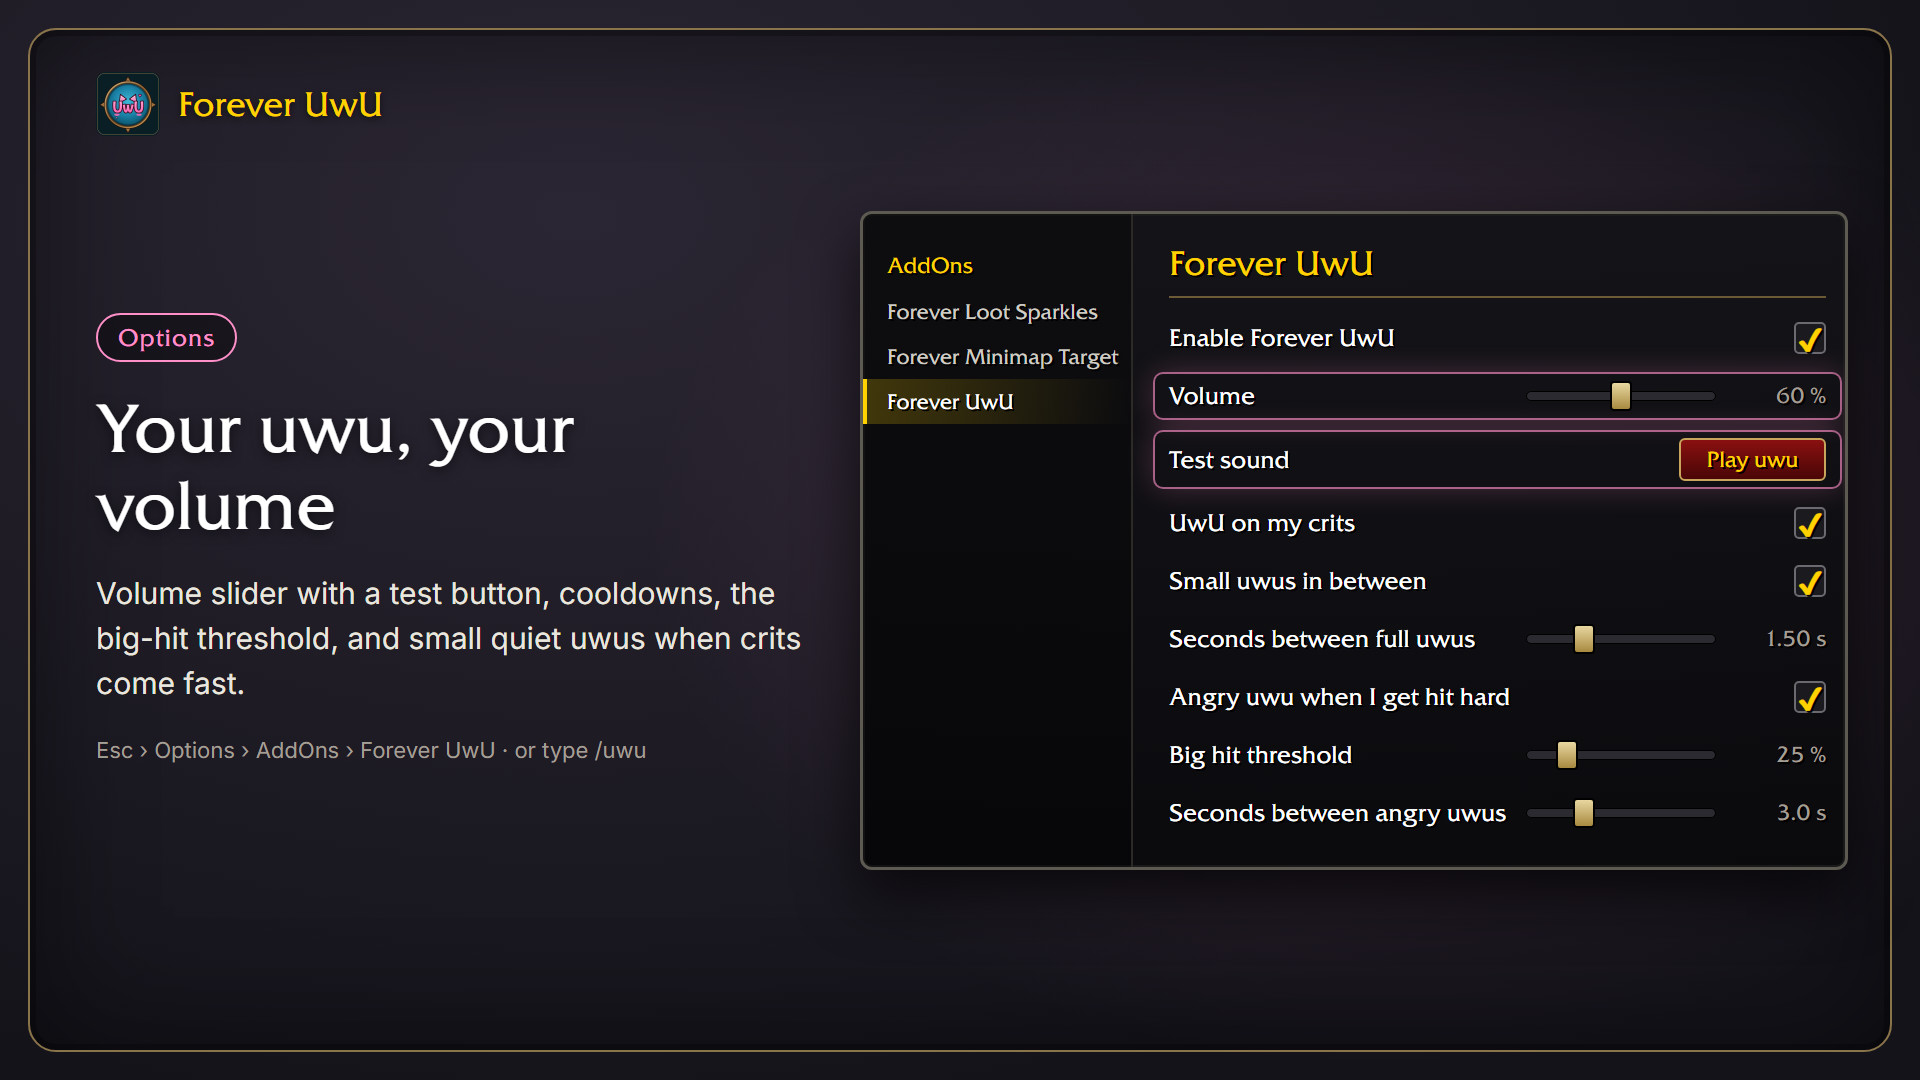
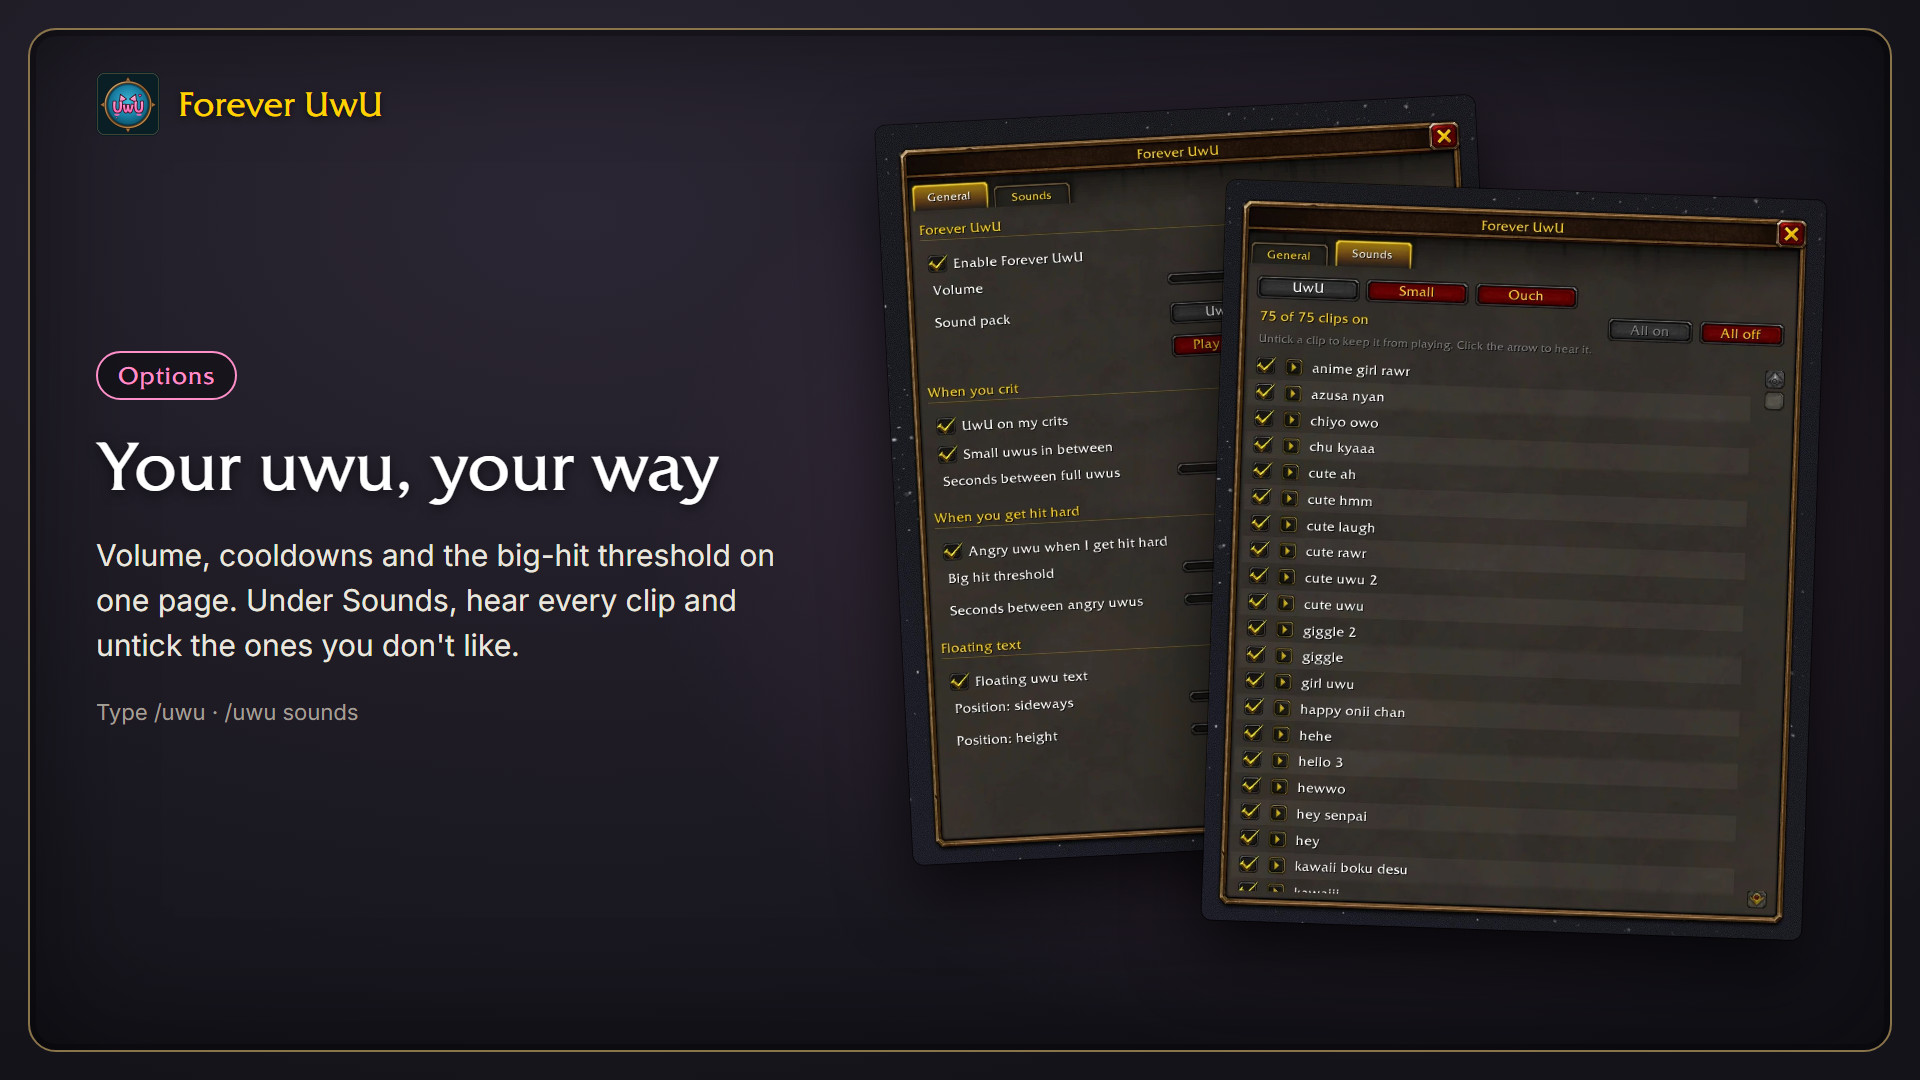
docs: show the new options window in the gallery

Changed region(s): [[0.0312, 0.0917, 0.9688, 0.8556]]

diff --git a/media/gallery/03-options.html b/media/gallery/03-options.html
@@ -5,36 +5,27 @@
 <title>Forever UwU – Options</title>
 <link rel="stylesheet" href="https://fonts.googleapis.com/css2?family=Inter:wght@400;600&display=block">
 <link rel="stylesheet" href="style.css">
+<style>
+  /* In-game screenshots of the options window (shots/), fanned out */
+  .shot {
+    position: absolute; width: 600px; border-radius: 10px;
+    box-shadow: 0 30px 70px rgba(0, 0, 0, 0.7), 0 0 0 1px rgba(0, 0, 0, 0.6);
+  }
+</style>
 </head>
 <body>
 <div class="frame"></div>
 <div class="brand"><img src="../logo.png" alt="">Forever UwU</div>
 <div class="copy">
   <span class="chip" style="color: var(--pink)">Options</span>
-  <h1>Your uwu, your volume</h1>
-  <p>Volume slider with a test button, cooldowns, the big-hit threshold, and small quiet uwus when crits come fast.</p>
-  <p class="note">Esc › Options › AddOns › Forever UwU · or type /uwu</p>
+  <h1>Your uwu, your way</h1>
+  <p>Volume, cooldowns and the big-hit threshold on one page. Under Sounds, hear every clip and untick the ones you don't like.</p>
+  <p class="note">Type /uwu · /uwu sounds</p>
 </div>
 <div class="stage">
-  <div class="settings">
-    <div class="side">
-      <div class="head">AddOns</div>
-      <div>Forever Loot Sparkles</div>
-      <div>Forever Minimap Target</div>
-      <div class="sel">Forever UwU</div>
-    </div>
-    <div class="main">
-      <h2>Forever UwU</h2>
-      <div class="row"><span class="label">Enable Forever UwU</span><span class="box on"></span></div>
-      <div class="row hl"><span class="label">Volume</span><span class="slider"><i style="left: 50%"></i></span><span class="slider-val">60 %</span></div>
-      <div class="row hl"><span class="label">Test sound</span><span class="button">Play uwu</span></div>
-      <div class="row"><span class="label">UwU on my crits</span><span class="box on"></span></div>
-      <div class="row"><span class="label">Small uwus in between</span><span class="box on"></span></div>
-      <div class="row"><span class="label">Seconds between full uwus</span><span class="slider"><i style="left: 30%"></i></span><span class="slider-val">1.50 s</span></div>
-      <div class="row"><span class="label">Angry uwu when I get hit hard</span><span class="box on"></span></div>
-      <div class="row"><span class="label">Big hit threshold</span><span class="slider"><i style="left: 21%"></i></span><span class="slider-val">25 %</span></div>
-      <div class="row"><span class="label">Seconds between angry uwus</span><span class="slider"><i style="left: 30%"></i></span><span class="slider-val">3.0 s</span></div>
-    </div>
+  <div style="position: relative; width: 960px; height: 940px;">
+    <img class="shot" src="shots/options-general.jpg" alt="" style="left: 20px; top: 40px; transform: rotate(-3deg);">
+    <img class="shot" src="shots/options-sounds.jpg" alt="" style="left: 340px; top: 120px; transform: rotate(2deg);">
   </div>
 </div>
 </body>

diff --git a/media/gallery/README.md b/media/gallery/README.md
@@ -1,7 +1,8 @@
 # Gallery images
 
 Source for the CurseForge gallery: one HTML page per image (1920×1080), shared look in `style.css`
-(same frame as ForeverLootSparkles and ForeverMinimapTarget). Everything is drawn in HTML/CSS plus `../logo.png`.
+(same frame as ForeverLootSparkles and ForeverMinimapTarget). Everything is drawn in HTML/CSS plus `../logo.png`, except `03-options.html`, which shows in-game
+screenshots of the options window from `shots/`.
 
 Render all pages to JPG (or a single one with `sh render.sh 02-hurt.html`):
 
